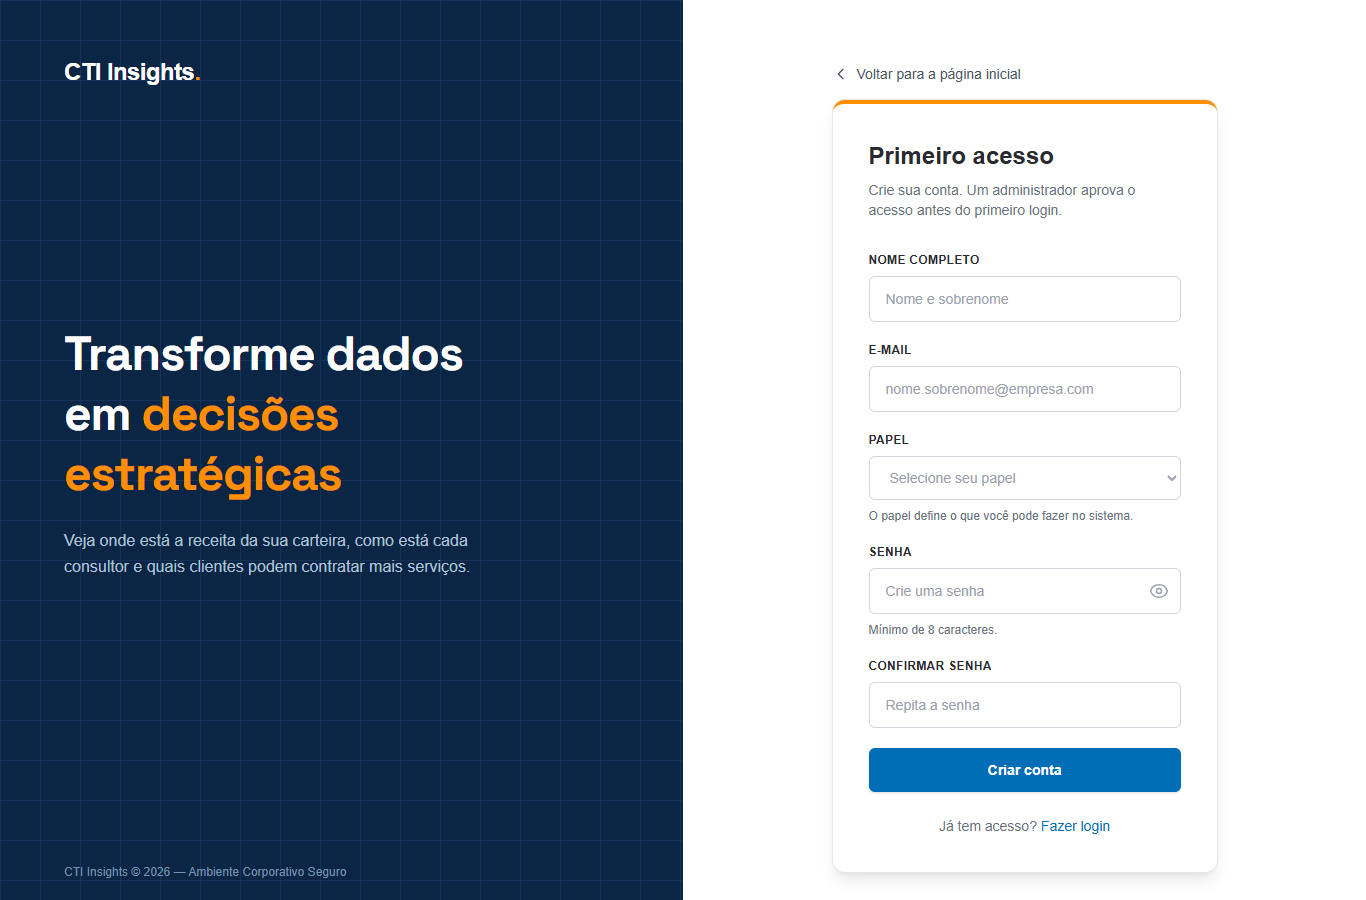
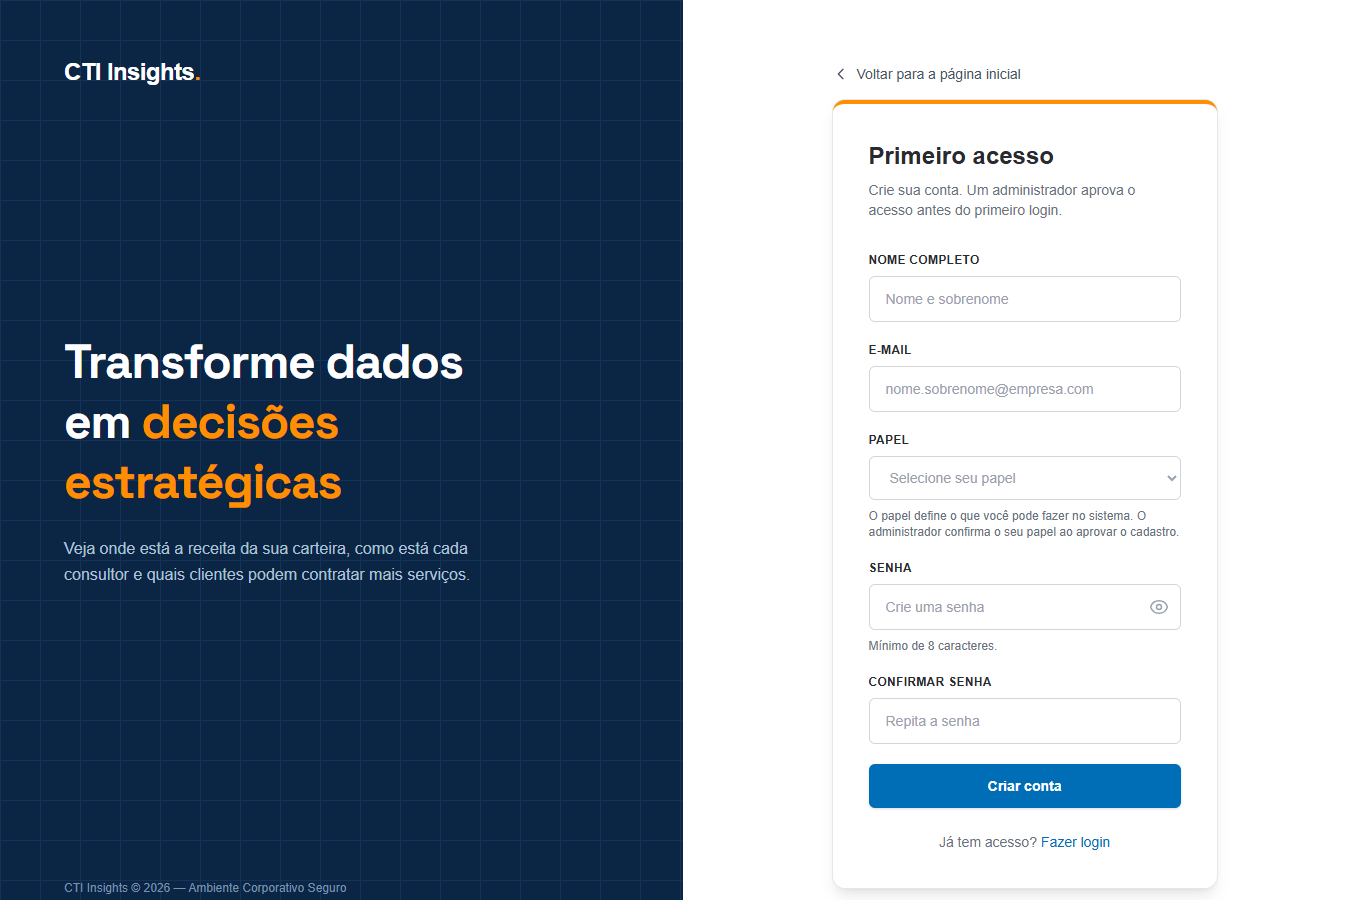
fix(front): cadastro mais claro e seguro
- papéis do cadastro: só Consultor e Gestor (Administrador é definido na
  tela Usuários); explicação dos papéis atualizada
- erro embaixo de cada campo, com borda vermelha, aria-invalid e foco no
  primeiro campo com problema
- e-mail validado no navegador ("ana@empresa" não passa)
- tela final orienta a avisar o administrador (o sistema não envia e-mail)
- mensagem geral em 14 px e endereço de retorno só interno
- evidências atualizadas

diff --git a/frontend-vue/src/views/Cadastro.vue b/frontend-vue/src/views/Cadastro.vue
@@ -1,5 +1,5 @@
 <script setup>
-import { computed, ref } from 'vue'
+import { computed, nextTick, ref } from 'vue'
 import { useRoute, useRouter } from 'vue-router'
 import { useAuthStore } from '../stores/authStore'
 import PainelInstitucional from '../components/PainelInstitucional.vue'
@@ -17,46 +17,85 @@ const papel = ref('')
 const senha = ref('')
 const confirmarSenha = ref('')
 const mostrarSenha = ref(false)
+// erro: mensagem geral (ex.: resposta do servidor). errosCampo: um texto
+// por campo, mostrado embaixo dele
 const erro = ref('')
+const errosCampo = ref({})
 const enviando = ref(false)
+
+// Quem se cadastra escolhe entre Consultor e Gestor. Administrador é
+// definido por outro administrador, na tela Usuários.
+const PAPEIS_CADASTRO = PAPEIS.filter(item => item.valor !== 'ADMINISTRADOR')
+
+// Mesma ideia da regra do Spring (algo@algo), exigindo também um ponto no
+// domínio, para pegar erros comuns como "ana@" ou "ana@empresa"
+const EMAIL_VALIDO = /^[^@\s]+@[^@\s]+\.[^@\s]+$/
+
+// Só caminhos internos (mesma regra do login)
+const destinoSeguro = destino => (typeof destino === 'string' && destino.startsWith('/') && !destino.startsWith('//') && !destino.startsWith('/\\')
+  ? destino
+  : '/dashboard')
 
 // Conta criada que ficou aguardando aprovação: troca o formulário pela
 // mensagem de "cadastro enviado"
 const contaPendente = ref(null)
 
-const descricaoPapel = computed(() => PAPEIS.find(item => item.valor === papel.value)?.descricao || '')
+const descricaoPapel = computed(() => PAPEIS_CADASTRO.find(item => item.valor === papel.value)?.descricao || '')
 
-// Confere o formulário e devolve a mensagem do primeiro problema
-// (ou '' se estiver tudo certo).
+// Confere o formulário e devolve { campo: mensagem } (vazio = tudo certo)
 const validar = () => {
-  if (!nome.value.trim() || !email.value || !papel.value || !senha.value || !confirmarSenha.value) {
-    return 'Preencha todos os campos.'
+  const erros = {}
+  const nomeLimpo = nome.value.trim()
+
+  if (!nomeLimpo) {
+    erros.nome = 'Digite seu nome e sobrenome.'
+  } else if (nomeLimpo.split(/\s+/).length < 2) {
+    // Nome e sobrenome: é o que aparece no menu e no histórico de envios
+    erros.nome = 'Digite também o sobrenome.'
   }
 
-  // Nome e sobrenome: é o que aparece na Sidebar e no histórico de envios
-  if (nome.value.trim().split(/\s+/).length < 2) {
-    return 'Digite seu nome e sobrenome.'
+  if (!email.value.trim()) {
+    erros.email = 'Digite seu e-mail.'
+  } else if (!EMAIL_VALIDO.test(email.value.trim())) {
+    erros.email = 'Digite um e-mail válido, como nome.sobrenome@empresa.com.'
   }
 
-  if (!email.value.includes('@')) {
-    return 'Digite um e-mail válido.'
+  if (!papel.value) {
+    erros.papel = 'Escolha o seu papel.'
   }
 
-  if (senha.value.length < SENHA_MINIMA) {
-    return `A senha precisa ter pelo menos ${SENHA_MINIMA} caracteres.`
+  if (!senha.value) {
+    erros.senha = 'Crie uma senha.'
+  } else if (senha.value.length < SENHA_MINIMA) {
+    erros.senha = `A senha precisa ter pelo menos ${SENHA_MINIMA} caracteres.`
   }
 
-  if (senha.value !== confirmarSenha.value) {
-    return 'As senhas não conferem.'
+  if (!confirmarSenha.value) {
+    erros['confirmar-senha'] = 'Repita a senha.'
+  } else if (senha.value && senha.value !== confirmarSenha.value) {
+    erros['confirmar-senha'] = 'As senhas não conferem.'
   }
 
-  return ''
+  return erros
 }
 
-const criarConta = async () => {
-  erro.value = validar()
+const classeCampo = campo => errosCampo.value[campo]
+  ? 'border-red-400 focus:border-red-500 focus:ring-red-500/10'
+  : 'border-gray-300 focus:border-[#006EB7] focus:ring-[#006EB7]/10'
 
-  if (erro.value || enviando.value) {
+const criarConta = async () => {
+  erro.value = ''
+  errosCampo.value = validar()
+
+  // Leva o cursor ao primeiro campo com problema
+  const primeiro = ['nome', 'email', 'papel', 'senha', 'confirmar-senha'].find(campo => errosCampo.value[campo])
+  if (primeiro) {
+    await nextTick()
+    document.getElementById(primeiro)?.focus()
+    return
+  }
+
+  if (enviando.value) {
     return
   }
 
@@ -83,7 +122,7 @@ const criarConta = async () => {
     return
   }
 
-  router.push(route.query.redirect || '/dashboard')
+  router.push(destinoSeguro(route.query.redirect))
 }
 </script>
 
@@ -141,7 +180,12 @@ const criarConta = async () => {
           <p class="mt-3 text-sm leading-relaxed text-gray-600">
             Sua conta de <strong>{{ rotuloPapel(contaPendente.papel) }}</strong>
             ({{ contaPendente.email }}) está <strong>aguardando aprovação</strong>
-            de um administrador. Você poderá entrar assim que ela for aprovada.
+            de um administrador.
+          </p>
+
+          <p class="mt-3 text-sm leading-relaxed text-gray-600">
+            <strong>Avise o administrador da sua equipe</strong> para agilizar. O sistema não envia
+            e-mail: depois da aprovação, é só entrar com o seu e-mail e a sua senha.
           </p>
 
           <RouterLink
@@ -186,8 +230,12 @@ const criarConta = async () => {
                 type="text"
                 autocomplete="name"
                 placeholder="Nome e sobrenome"
-                class="w-full rounded-md border border-gray-300 px-4 py-3 text-sm text-gray-700 outline-none transition placeholder:text-gray-400 focus:border-[#006EB7] focus:ring-2 focus:ring-[#006EB7]/10"
+                :aria-invalid="Boolean(errosCampo['nome'])"
+                :aria-describedby="errosCampo['nome'] ? 'erro-nome' : undefined"
+                class="w-full rounded-md border px-4 py-3 text-sm text-gray-700 outline-none transition placeholder:text-gray-400 focus:ring-2"
+                :class="classeCampo('nome')"
               />
+              <p v-if="errosCampo['nome']" id="erro-nome" class="mt-1 text-xs font-medium text-red-600">{{ errosCampo['nome'] }}</p>
 
             </div>
 
@@ -208,8 +256,12 @@ const criarConta = async () => {
                 type="email"
                 autocomplete="email"
                 placeholder="nome.sobrenome@empresa.com"
-                class="w-full rounded-md border border-gray-300 px-4 py-3 text-sm text-gray-700 outline-none transition placeholder:text-gray-400 focus:border-[#006EB7] focus:ring-2 focus:ring-[#006EB7]/10"
+                :aria-invalid="Boolean(errosCampo['email'])"
+                :aria-describedby="errosCampo['email'] ? 'erro-email' : undefined"
+                class="w-full rounded-md border px-4 py-3 text-sm text-gray-700 outline-none transition placeholder:text-gray-400 focus:ring-2"
+                :class="classeCampo('email')"
               />
+              <p v-if="errosCampo['email']" id="erro-email" class="mt-1 text-xs font-medium text-red-600">{{ errosCampo['email'] }}</p>
 
             </div>
 
@@ -228,13 +280,14 @@ const criarConta = async () => {
               <select
                 id="papel"
                 v-model="papel"
-                aria-describedby="dica-papel"
-                class="w-full rounded-md border border-gray-300 bg-white px-4 py-3 text-sm outline-none transition focus:border-[#006EB7] focus:ring-2 focus:ring-[#006EB7]/10"
-                :class="papel ? 'text-gray-700' : 'text-gray-400'"
+                :aria-describedby="errosCampo.papel ? 'erro-papel dica-papel' : 'dica-papel'"
+                :aria-invalid="Boolean(errosCampo.papel)"
+                class="w-full rounded-md border bg-white px-4 py-3 text-sm outline-none transition focus:ring-2"
+                :class="[papel ? 'text-gray-700' : 'text-gray-400', classeCampo('papel')]"
               >
                 <option value="" disabled>Selecione seu papel</option>
                 <option
-                  v-for="item in PAPEIS"
+                  v-for="item in PAPEIS_CADASTRO"
                   :key="item.valor"
                   :value="item.valor"
                   class="text-gray-700"
@@ -248,7 +301,9 @@ const criarConta = async () => {
                 class="mt-2 text-xs text-gray-500"
               >
                 {{ descricaoPapel || 'O papel define o que você pode fazer no sistema.' }}
+                O administrador confirma o seu papel ao aprovar o cadastro.
               </p>
+              <p v-if="errosCampo.papel" id="erro-papel" class="mt-1 text-xs font-medium text-red-600">{{ errosCampo.papel }}</p>
 
             </div>
 
@@ -270,9 +325,11 @@ const criarConta = async () => {
                   v-model="senha"
                   :type="mostrarSenha ? 'text' : 'password'"
                   autocomplete="new-password"
-                  aria-describedby="dica-senha"
+                  :aria-describedby="errosCampo.senha ? 'erro-senha dica-senha' : 'dica-senha'"
+                  :aria-invalid="Boolean(errosCampo.senha)"
                   placeholder="Crie uma senha"
-                  class="w-full rounded-md border border-gray-300 px-4 py-3 pr-11 text-sm text-gray-700 outline-none transition placeholder:text-gray-400 focus:border-[#006EB7] focus:ring-2 focus:ring-[#006EB7]/10"
+                  class="w-full rounded-md border px-4 py-3 pr-11 text-sm text-gray-700 outline-none transition placeholder:text-gray-400 focus:ring-2"
+                  :class="classeCampo('senha')"
                 />
 
                 <button
@@ -326,6 +383,7 @@ const criarConta = async () => {
               >
                 Mínimo de {{ SENHA_MINIMA }} caracteres.
               </p>
+              <p v-if="errosCampo.senha" id="erro-senha" class="mt-1 text-xs font-medium text-red-600">{{ errosCampo.senha }}</p>
 
             </div>
 
@@ -346,8 +404,12 @@ const criarConta = async () => {
                 :type="mostrarSenha ? 'text' : 'password'"
                 autocomplete="new-password"
                 placeholder="Repita a senha"
-                class="w-full rounded-md border border-gray-300 px-4 py-3 text-sm text-gray-700 outline-none transition placeholder:text-gray-400 focus:border-[#006EB7] focus:ring-2 focus:ring-[#006EB7]/10"
+                :aria-invalid="Boolean(errosCampo['confirmar-senha'])"
+                :aria-describedby="errosCampo['confirmar-senha'] ? 'erro-confirmar-senha' : undefined"
+                class="w-full rounded-md border px-4 py-3 text-sm text-gray-700 outline-none transition placeholder:text-gray-400 focus:ring-2"
+                :class="classeCampo('confirmar-senha')"
               />
+              <p v-if="errosCampo['confirmar-senha']" id="erro-confirmar-senha" class="mt-1 text-xs font-medium text-red-600">{{ errosCampo['confirmar-senha'] }}</p>
 
             </div>
 
@@ -356,7 +418,7 @@ const criarConta = async () => {
             <div
               v-if="erro"
               role="alert"
-              class="rounded-md border border-red-200 bg-red-50 px-4 py-3 text-xs text-red-600"
+              class="rounded-md border border-red-200 bg-red-50 px-4 py-3 text-sm text-red-600"
             >
               {{ erro }}
             </div>

diff --git a/frontend-vue/src/utils/papeis.js b/frontend-vue/src/utils/papeis.js
@@ -23,7 +23,7 @@ export const PAPEIS = [
   {
     valor: 'ADMINISTRADOR',
     rotulo: 'Administrador',
-    descricao: 'Acesso total: importa planilhas, aprova cadastros e pode apagar dados e histórico.'
+    descricao: 'Tudo o que o consultor faz, mais aprovar cadastros, gerenciar acessos e excluir clientes.'
   }
 ]
 

diff --git a/evidencias/entrega-final/README.md b/evidencias/entrega-final/README.md
@@ -30,6 +30,7 @@ clientes). Desktop em 1366 px e celular em 390 px.
 | `18-usuarios-acoes.png` | Usuários com cadastros simulados: aprovar, recusar, mudar papel, gerar senha temporária, bloquear e reativar |
 | `19-senha-temporaria.png` | Senha temporária gerada, mostrada uma única vez |
 | `20-troca-obrigatoria.png` | Quem entra com senha temporária precisa criar uma senha nova |
+| `21-cadastro-validacao.png` | Cadastro no celular: erro embaixo de cada campo |
 
 ## Testes ([`testes/`](testes/))
 
@@ -43,6 +44,7 @@ clientes). Desktop em 1366 px e celular em 390 px.
 | `planilha-professor.txt` | Planilha de aula do professor: 36 linhas lidas, 25 corrigidas sozinhas, os 4 erros intencionais recusados, 32 clientes |
 | `dashboard-chrome.txt` | Dashboard: origem dos dados, filtros, aviso nos insights, Top 10 e PDF: 10 de 10 |
 | `clientes-chrome.txt` | Tela Clientes: busca, filtros, ordenação, resumo, upsell, CSV e celular: 21 de 21 |
+| `cadastro-chrome.txt` | Cadastro: papéis, erros por campo, e-mail, tela final e retorno seguro: 14 de 14 |
 | `usuarios-chrome.txt` | Usuários e troca de senha: 28 de 28 |
 | `backend-mvn-test.txt` | Back-end: 6 de 6, incluindo o teste de bloqueio, troca de papel e senha temporária |
 | `menu-lateral-chrome.txt` | Menu lateral: fixo ao rolar, tablet e hambúrguer do celular: 14 de 14 |

diff --git a/frontend-vue/README.md b/frontend-vue/README.md
@@ -46,8 +46,10 @@ npm run dev        # servidor de desenvolvimento (http://localhost:5173)
 
 **Com o back-end (`VITE_USE_MOCK=false`):** entre com o administrador
 definido em `ADMIN_EMAIL` e `ADMIN_PASSWORD` no `.env` do Spring. Novas
-contas são criadas em `/cadastro` e ficam aguardando a aprovação de um
-Administrador em **Usuários**. Quem guarda as contas é o Spring, no banco.
+contas são criadas em `/cadastro` (papel Consultor ou Gestor) e ficam
+aguardando a aprovação de um Administrador em **Usuários**, que pode
+confirmar o papel, promover alguém a Administrador, bloquear acessos e gerar
+senha temporária. Quem guarda as contas é o Spring, no banco.
 
 **No modo simulado (`VITE_USE_MOCK=true`):** as contas ficam salvas só
 neste navegador.
